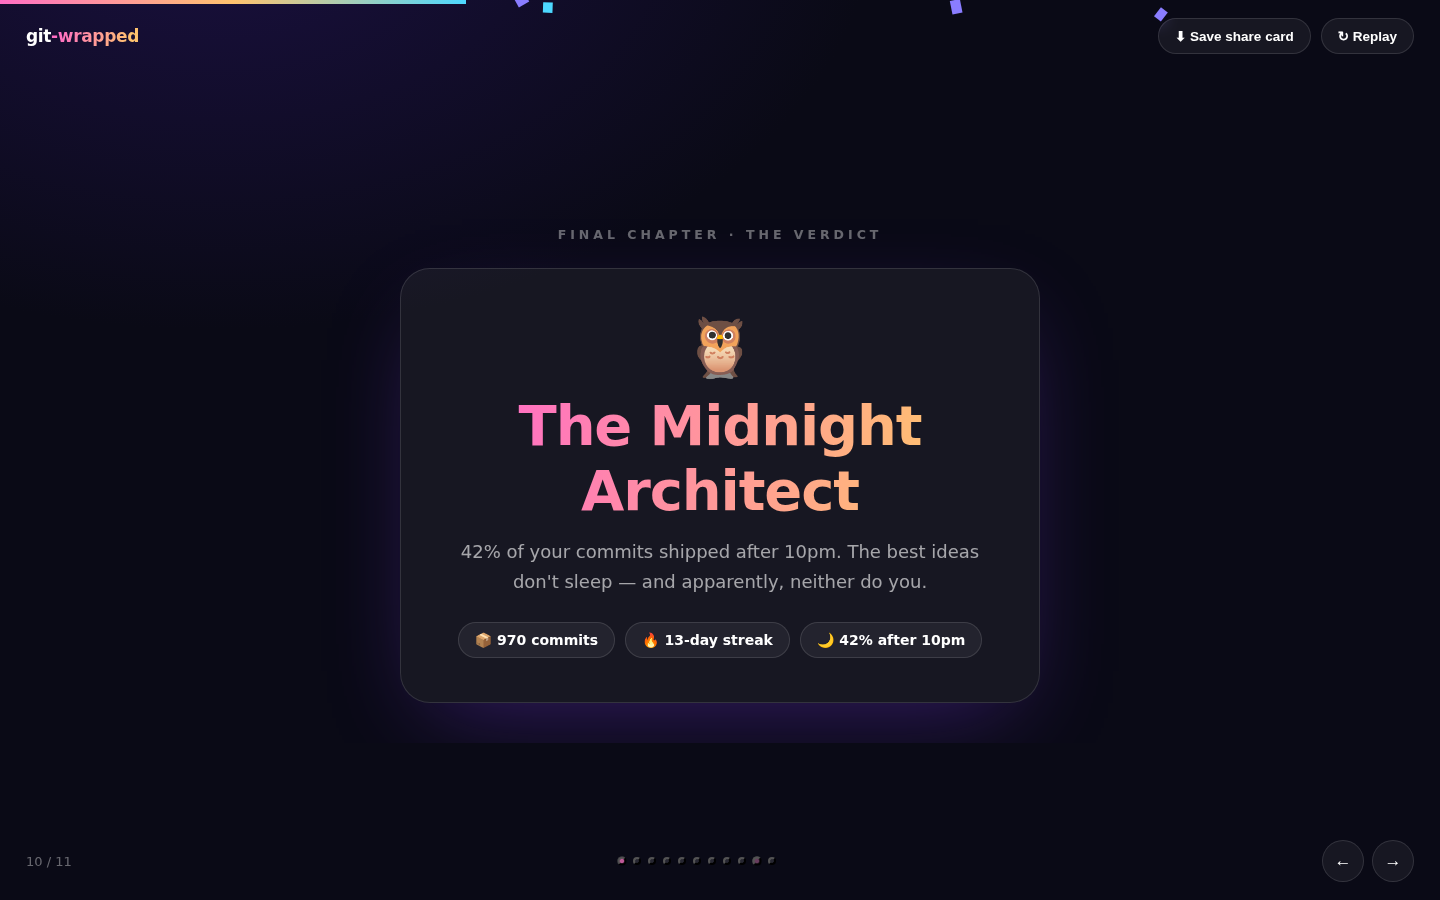
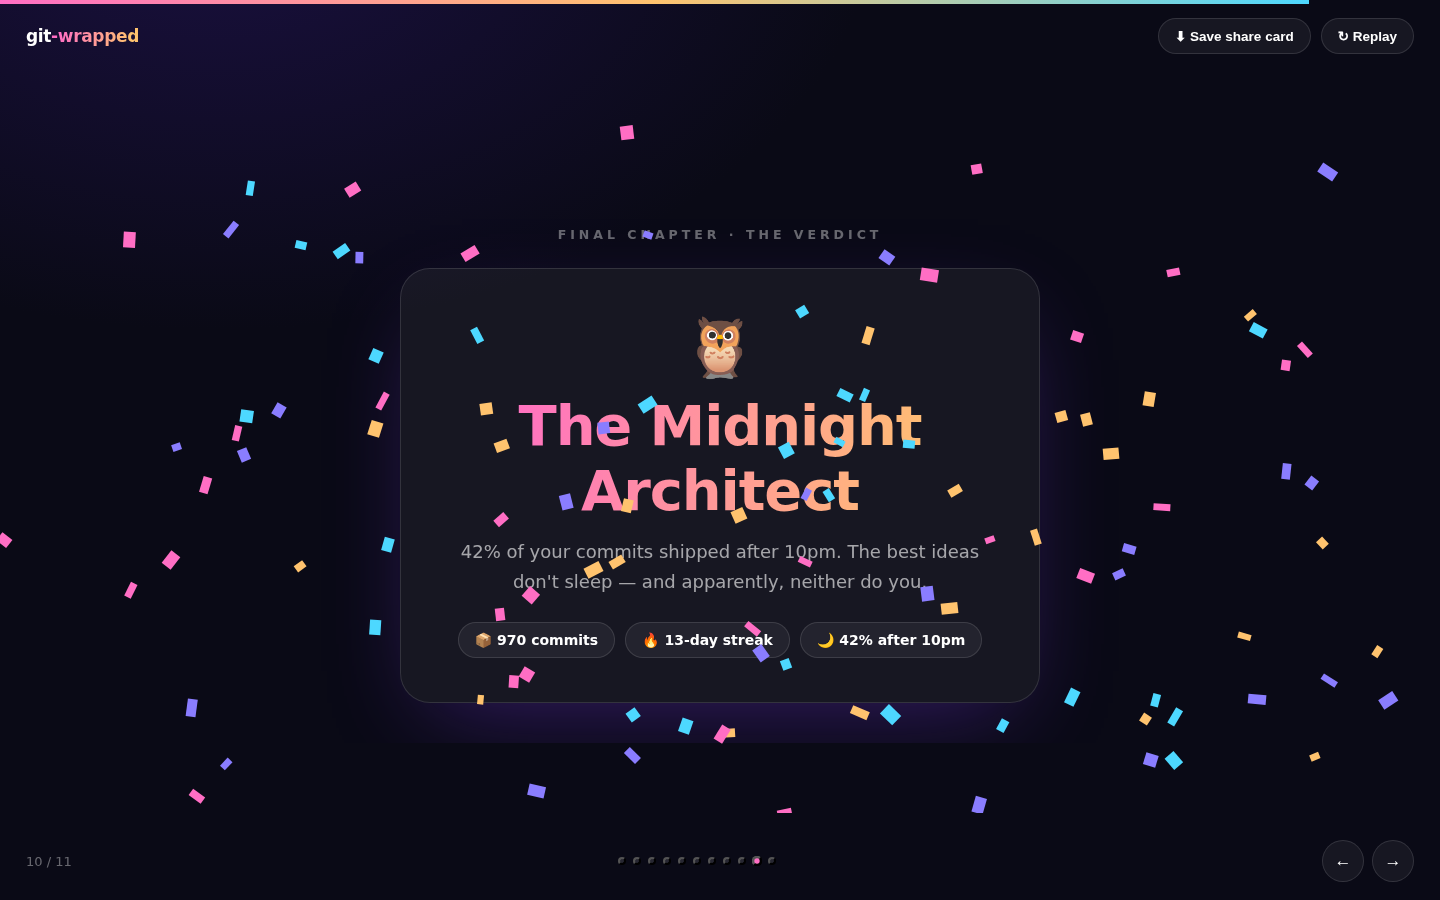
Seed the confetti so the deck renders deterministically
The verdict slide's confetti used unseeded randomness, so every capture of it
differed and regenerating the screenshots always produced a dirty diff.

Particle state now comes from a mulberry32 stream seeded off the repo's own
numbers (FNV-1a over repo/total/ins/streak), reseeded at the start of each
burst so a replay matches the first run. Same deck renders the same confetti;
different repos still get different confetti.

Seeding alone was not enough. The particles are deterministic but they still
MOVE, and Chrome's --virtual-time-budget advances rAF at its own pace, so two
runs of the same deck stopped on different frames: 3 distinct hashes across 5
runs of the verdict, 4 across 5 of the heatmap. make-screenshots.mjs now queues
rAF callbacks and steps them by hand against a fake performance.now clock, so
the captured frame is an input (FRAMES=185) rather than a race.

Pixel-diffing the last holdout showed drift confined to y 0-49 and y 850-899 —
the progress bar and the slide counter/dots, which animate with their own CSS
transitions. The freeze rule is now a blanket `transition: none`.

All three screenshots are byte-identical across 8 consecutive runs. The chosen
frame is also a better picture than the old timing-dependent one: a full spread
of confetti instead of a few streamers clipped at the top edge.

test.mjs asserts the deck source contains no unseeded randomness.

Claude-Session: https://claude.ai/code/session_0117CwJZ63kSJZVD9D8WVFTu

diff --git a/src/report.js b/src/report.js
@@ -131,6 +131,19 @@ function donutSvg(s, t) {
   </div>`;
 }
 
+// The confetti was unseeded, so the verdict slide rendered differently every time
+// and regenerated screenshots always produced a dirty diff. It draws from this
+// seed instead: identical every time you open a given deck, still different
+// between repos. FNV-1a, 32-bit. test.mjs guards against unseeded randomness
+// creeping back into the deck.
+function confettiSeed(s) {
+  let h = 2166136261;
+  for (const ch of `${s.repo}:${s.total}:${s.ins}:${s.longestStreak}`) {
+    h = Math.imul(h ^ ch.charCodeAt(0), 16777619);
+  }
+  return h >>> 0;
+}
+
 /* ---------- slides ---------- */
 
 function slide(inner, { title } = {}) {
@@ -405,7 +418,7 @@ function css(t) {
   }`;
 }
 
-function pageJs(t, cardSvg) {
+function pageJs(t, cardSvg, seed) {
   return `
   (() => {
     const slides = [...document.querySelectorAll('.slide')];
@@ -464,14 +477,23 @@ function pageJs(t, cardSvg) {
     const canvas = document.querySelector('#confetti');
     const ctx = canvas.getContext('2d');
     const COLORS = ${JSON.stringify([t.a1, t.a2, t.b1, t.b2])};
+    /* mulberry32, reseeded per burst so a replay looks the same as the first run */
+    let cs = 0;
+    const crnd = () => {
+      cs |= 0; cs = (cs + 0x6d2b79f5) | 0;
+      let t = Math.imul(cs ^ (cs >>> 15), 1 | cs);
+      t = (t + Math.imul(t ^ (t >>> 7), 61 | t)) ^ t;
+      return ((t ^ (t >>> 14)) >>> 0) / 4294967296;
+    };
     function burst() {
+      cs = ${seed};
       canvas.width = innerWidth; canvas.height = innerHeight;
       const parts = [];
       for (let i = 0; i < 140; i++) parts.push({
-        x: Math.random() * canvas.width, y: -20 - Math.random() * canvas.height * 0.4,
-        w: 6 + Math.random() * 7, h: 9 + Math.random() * 9,
-        vy: 2.4 + Math.random() * 3.4, vx: -1.4 + Math.random() * 2.8,
-        rot: Math.random() * Math.PI, vr: -0.12 + Math.random() * 0.24,
+        x: crnd() * canvas.width, y: -20 - crnd() * canvas.height * 0.4,
+        w: 6 + crnd() * 7, h: 9 + crnd() * 9,
+        vy: 2.4 + crnd() * 3.4, vx: -1.4 + crnd() * 2.8,
+        rot: crnd() * Math.PI, vr: -0.12 + crnd() * 0.24,
         c: COLORS[i % COLORS.length],
       });
       const t0 = performance.now();
@@ -547,7 +569,7 @@ export function buildHtml(s, theme, meta) {
       <button class="navbtn" id="nxt" aria-label="next">→</button>
     </div>
   </footer>
-<script>${pageJs(theme, cardSvg)}</script>
+<script>${pageJs(theme, cardSvg, confettiSeed(s))}</script>
 </body>
 </html>
 `;

diff --git a/example/wrapped.html b/example/wrapped.html
@@ -371,14 +371,23 @@
     const canvas = document.querySelector('#confetti');
     const ctx = canvas.getContext('2d');
     const COLORS = ["#ff6ec4","#ffc36e","#8a7dff","#4dd8ff"];
+    /* mulberry32, reseeded per burst so a replay looks the same as the first run */
+    let cs = 0;
+    const crnd = () => {
+      cs |= 0; cs = (cs + 0x6d2b79f5) | 0;
+      let t = Math.imul(cs ^ (cs >>> 15), 1 | cs);
+      t = (t + Math.imul(t ^ (t >>> 7), 61 | t)) ^ t;
+      return ((t ^ (t >>> 14)) >>> 0) / 4294967296;
+    };
     function burst() {
+      cs = 1149740105;
       canvas.width = innerWidth; canvas.height = innerHeight;
       const parts = [];
       for (let i = 0; i < 140; i++) parts.push({
-        x: Math.random() * canvas.width, y: -20 - Math.random() * canvas.height * 0.4,
-        w: 6 + Math.random() * 7, h: 9 + Math.random() * 9,
-        vy: 2.4 + Math.random() * 3.4, vx: -1.4 + Math.random() * 2.8,
-        rot: Math.random() * Math.PI, vr: -0.12 + Math.random() * 0.24,
+        x: crnd() * canvas.width, y: -20 - crnd() * canvas.height * 0.4,
+        w: 6 + crnd() * 7, h: 9 + crnd() * 9,
+        vy: 2.4 + crnd() * 3.4, vx: -1.4 + crnd() * 2.8,
+        rot: crnd() * Math.PI, vr: -0.12 + crnd() * 0.24,
         c: COLORS[i % COLORS.length],
       });
       const t0 = performance.now();
